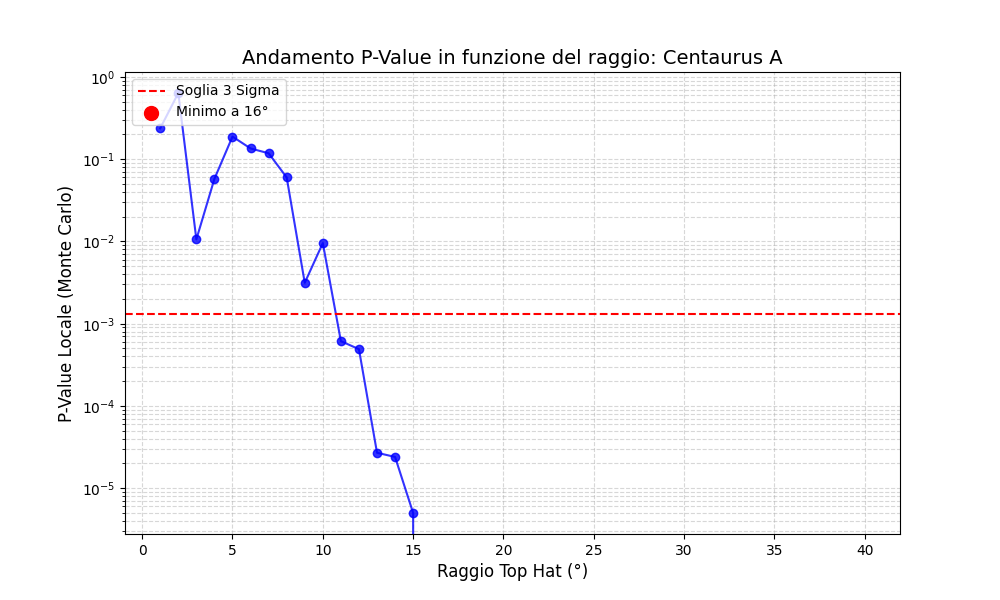
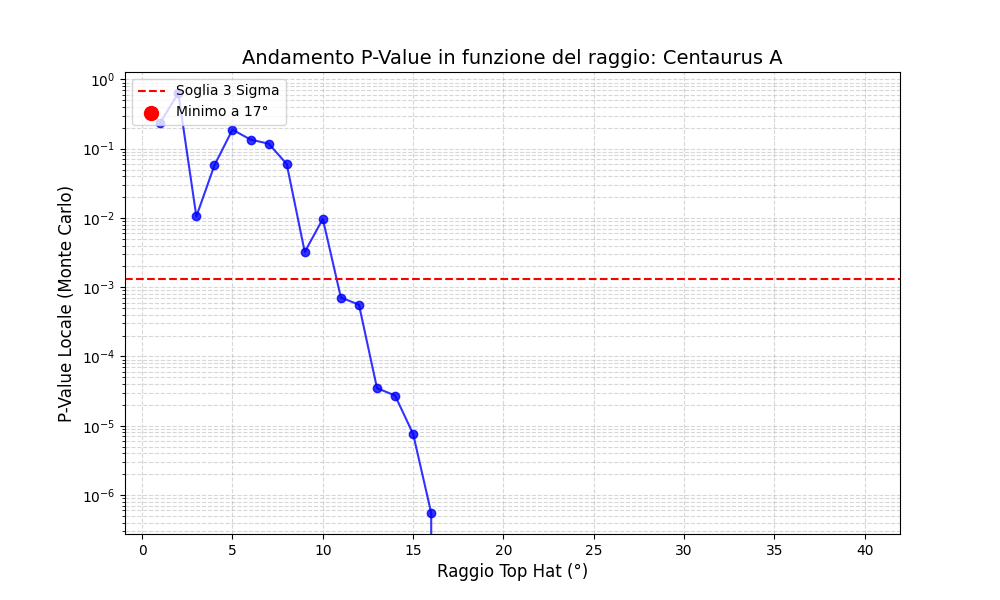
20 milioni di simulazioni ma niente risalita del p-value

diff --git a/astroNGC5128.py b/astroNGC5128.py
@@ -339,7 +339,7 @@ if __name__ == "__main__":
     file_esposizione = 'exposure.fits'
     
     raggio_di_ricerca = 15.0  
-    NUM_SIMULAZIONI = 1000000
+    NUM_SIMULAZIONI = 20000000
     
     os.makedirs(cartella_output, exist_ok=True)
     start_total_time = time.perf_counter()